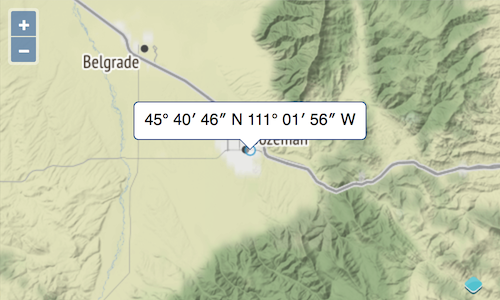
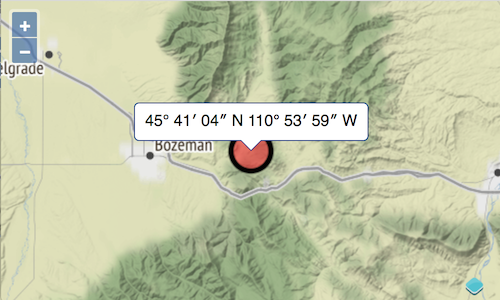
Update basics

diff --git a/src/en/examples/basics/popup.js b/src/en/examples/basics/popup.js
@@ -3,16 +3,27 @@ import Map from 'ol/map';
 import View from 'ol/view';
 import TileLayer from 'ol/layer/tile';
 import XYZSource from 'ol/source/xyz';
+//! [import-proj]
 import proj from 'ol/proj';
+//! [import-proj]
+//! [import-vector]
 import VectorLayer from 'ol/layer/vector';
 import VectorSource from 'ol/source/vector';
 import Feature from 'ol/feature';
 import Point from 'ol/geom/point';
-//! [popup-import]
+//! [import-vector]
+//! [import-style]
+import Style from 'ol/style/style';
+import IconStyle from 'ol/style/icon';
+//! [import-style]
+//! [import-popup]
 import Overlay from 'ol/overlay';
 import coordinate from 'ol/coordinate';
+//! [import-popup]
 
-var map = new Map({
+//! [map-const]
+const map = new Map({
+//! [map-const]
   target: 'map-container',
   layers: [
     new TileLayer({
@@ -27,26 +38,39 @@ var map = new Map({
   })
 });
 
-var positions = new VectorSource();
-map.addLayer(new VectorLayer({
-  source: positions
+//! [point-layer]
+const position = new VectorSource();
+const vector = new VectorLayer({
+  source: position
+});
+map.addLayer(vector);
+//! [point-layer]
+//! [style]
+vector.setStyle(new Style({
+  image: new IconStyle({
+    src: './data/marker.png'
+  })
 }));
+//! [style]
 
 navigator.geolocation.getCurrentPosition(function(pos) {
-  var coords = proj.fromLonLat([pos.coords.longitude, pos.coords.latitude]);
+  const coords = proj.fromLonLat([pos.coords.longitude, pos.coords.latitude]);
   map.getView().animate({center: coords, zoom: 10});
-  positions.addFeature(new Feature(new Point(coords)));
+  //! [add-point]
+  position.addFeature(new Feature(new Point(coords)));
+  //! [add-point]
 });
 
-//! [popup]
+//! [overlay]
 var overlay = new Overlay({
   element: document.getElementById('popup-container'),
   positioning: 'bottom-center',
   offset: [0, -10]
 });
 map.addOverlay(overlay);
-
-map.on('singleclick', function(e) {
+//! [overlay]
+//! [listen]
+map.on('click', function(e) {
   overlay.setPosition();
   var features = map.getFeaturesAtPixel(e.pixel);
   if (features) {
@@ -56,4 +80,4 @@ map.on('singleclick', function(e) {
     overlay.setPosition(coords);
   }
 });
-//! [popup]
+//! [listen]

diff --git a/src/en/examples/basics/point-feature.js b/src/en/examples/basics/point-feature.js
@@ -13,7 +13,7 @@ import Feature from 'ol/feature';
 import Point from 'ol/geom/point';
 //! [import-vector]
 //! [import-style]
-import Style from 'ol/style';
+import Style from 'ol/style/style';
 import IconStyle from 'ol/style/icon';
 //! [import-style]
 
@@ -39,13 +39,12 @@ const position = new VectorSource();
 const vector = new VectorLayer({
   source: position
 });
-map.addLayer();
+map.addLayer(vector);
 //! [point-layer]
 //! [style]
 vector.setStyle(new Style({
   image: new IconStyle({
-    src: './data/marker.jpg',
-    anchor: [0.5, 1]
+    src: './data/marker.png'
   })
 }));
 //! [style]

diff --git a/doc/en/basics/popup.md b/doc/en/basics/popup.md
@@ -2,9 +2,9 @@
 
 OpenLayers can anchor markup to a position on the map. This can be used to display a popup at a user clicked location. In this case, we just want to show the latitude and longitude of the current user location in a nice little popup.
 
-## Working Example
+## CSS and Markup for the Popup
 
-For nice styling of the popup, we can go to http://www.cssarrowplease.com and design a container for our popup. The resulting css is simply copied to the `<style>` section of our index.html:
+For nice styling of the popup, we can go to http://www.cssarrowplease.com/ and design a container for our popup. I changed the arrow size to 10 and played a bit with the colors. The resulting css is simply copied to the `<style>` section of our index.html:
 
 [import:'css'](../../../src/en/examples/basics/popup.html)
 
@@ -16,24 +16,24 @@ In addition to the css, we also need to add the markup for the container the bod
 
 [import:'markup'](../../../src/en/examples/basics/popup.html)
 
+## Application Code for Interacting with the Map
+
+The `Overlay` module is responsible for anchoring markup to a position on the map, and the `coordinate` module provides a function to format a position in degrees, minutes and seconds. Let's import these two modules:
+
+[import:'import-popup'](../../../src/en/examples/basics/popup.js)
+
 To create the overlay and connect it to the popup, we append the following code to our `main.js`:
 
-[import:'popup'](../../../src/en/examples/basics/popup.js)
+[import:'overlay'](../../../src/en/examples/basics/popup.js)
 
-Note the `offset` we configured for the `Overlay`. The y offset (`-10`) has to compensate for the arrow size we provided on http://www.cssarrowplease.com.
+Note the `offset` we configured for the `Overlay`. The y offset (`-10`) has to compensate for the arrow size we provided on http://www.cssarrowplease.com/.
 
-The complete `index.html` and `main.js` files now looks like this:
+The last step is to append another code snippet to `main.js`, where we listen for user clicks on the map and handle them by showing the popup at the position of the clicked vector feature:
 
-[import](../../../src/en/examples/basics/popup.html)
+[import:'listen'](../../../src/en/examples/basics/popup.js)
 
-[import](../../../src/en/examples/basics/popup.js)
+The `on()` function is used to register a listener for clicks, and `Map#getFeaturesAtPixel()` returns the features at the pixel position, where pixels are relative to the map viewport. That `pixel` is provided by the event object (`e`) we get as argument for the listener function.
 
-### Tasks
-
-1.  Copy the markup above and paste it into `index.html`.
-
-1.  Copy the JS above and paste it into `main.js`.
-
-1.  Look at the working map in your web browser: {{ book.workshopUrl }}. Once you are zoomed to your current location and see the blue circle, click on it to get the popup. When you click somewhere else on the map, the popup will disappear again.
+Now look at the working map in the web browser: {{ book.workshopUrl }}/. Once you are zoomed to the current location and see the circle marker, click on it to get the popup. When you click somewhere else on the map, the popup will disappear again.
 
 ![A map with a popup at our location](popup.png)

diff --git a/doc/en/basics/point-feature.md b/doc/en/basics/point-feature.md
@@ -8,22 +8,26 @@ In addition to displaying maps from tiles provided by a tile service, OpenLayers
 
 A few more imports are required:
 
-[import:'import'](../../../src/en/examples/basics/point-feature.js)
+[import:'import-vector'](../../../src/en/examples/basics/point-feature.js)
 
-The vector layer itself is created with the following code, which we simply append at the bottom of our `main.js` file:
+The vector layer itself is created with the following code, which we place between the `const map` and `navigator.geolocation` blocks in our `main.js` file:
 
 [import:'point-layer'](../../../src/en/examples/basics/point-feature.js)
 
-We also need to add a point feature to that vector layer as soon as we know our location. This is done with a single line in the `geolocation`'s' `getCurrentPosition` callback:
+We now can create a point feature and add it to the vector layer as soon as we know our location. This is done with a single line at the end of the `geolocation`'s' `getCurrentPosition` callback:
 
 [import:'add-point'](../../../src/en/examples/basics/point-feature.js)
 
-The complete `main.js` file now looks like this:
+## Styling the Point
 
-[import](../../../src/en/examples/basics/point-feature.js)
+To make the point of our location easier to see on the map, we can give the vector layer some style. This requires more imports to be added at the top of our `main.js`.
 
-### Tasks
+[import:'import-style'](../../../src/en/examples/basics/point-feature.js)
 
-1.  Copy the JS above and paste it into `main.js`.
+The code for adding the style can be added after the `VectorLayer` definition:
 
-1.  Look at the working map in your web browser: {{ book.workshopUrl }}. When asked whether you want to give the page access to your location, answer 'Yes'. When zoomed to your location, you should see a blue circle indicating your position.
+[import:'style'](../../../src/en/examples/basics/point-feature.js)
+
+When done, the result should look like this:
+
+![User location with a marker](point-feature.png)
